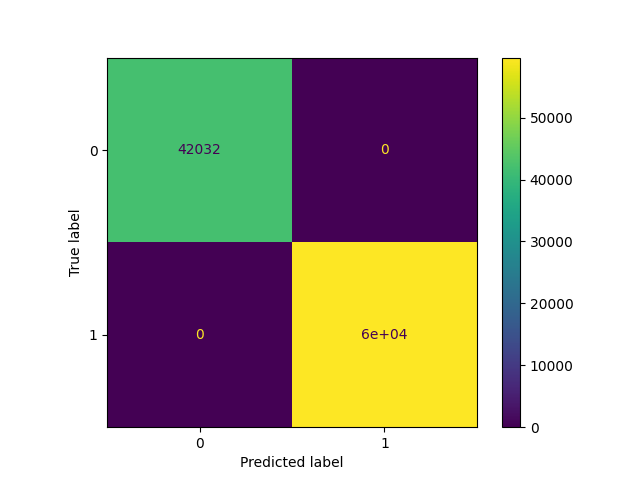
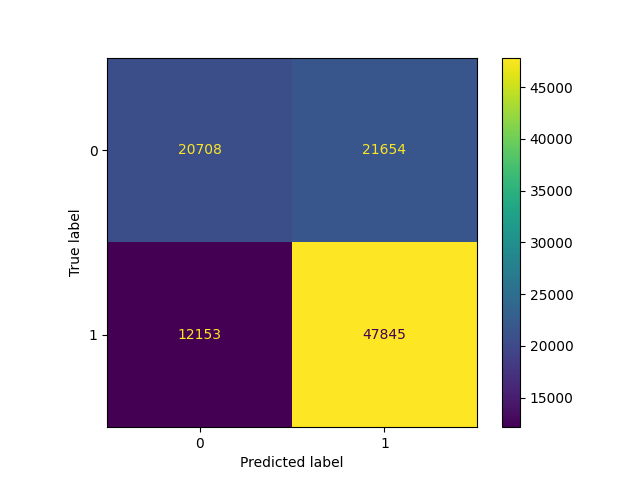
Added spyder graph

diff --git a/src/train.py b/src/train.py
@@ -1,7 +1,9 @@
+import itertools
 import pandas as pd
 import numpy as np
 import matplotlib.pyplot as plt
-from sklearn.metrics import confusion_matrix, ConfusionMatrixDisplay, accuracy_score
+from sklearn.metrics import confusion_matrix, ConfusionMatrixDisplay, accuracy_score, recall_score, f1_score, roc_auc_score, log_loss, roc_curve
+
 from sklearn.model_selection import train_test_split, GridSearchCV
 from sklearn.svm import SVC
 from sklearn.ensemble import RandomForestClassifier, GradientBoostingClassifier
@@ -25,13 +27,146 @@ def split_data(train_df: pd.DataFrame, test_df:pd.DataFrame):
     return x_train, y_train, x_test, y_test
 
 
-def train_test(train_df: pd.DataFrame, model, test_df: pd.DataFrame):
-    x_train, y_train, x_test, y_test = split_data(train_df=train_df, test_df=test_df)
-    # Train Model
+def evaluate_model(model, x_train, y_train, x_test, y_test):
     model.fit(x_train, y_train)
     y_train_pred = model.predict(x_train)
     y_pred = model.predict(x_test)
 
+    cm_train = confusion_matrix(y_true=y_train, y_pred=y_train_pred)
+
+    cm_test = confusion_matrix(y_true=y_test, y_pred=y_pred)
+    
+    # Compute Train Metrics
+    accuracy_train = accuracy_score(y_pred=y_pred, y_true=y_test)
+    # Recall
+    recall_train = recall_score(y_test, y_pred)
+    # Puntuación F1
+    f1_train = f1_score(y_test, y_pred)
+    # Curva ROC (AUC)
+    fpr_train, tpr_train, thresholds_train = roc_curve(y_test, y_pred)
+    auc_train = roc_auc_score(y_test, y_pred)
+    # Pérdida logarítmica
+    loss_train = log_loss(y_test, y_pred)
+    
+    # Compute Test Metrics
+    accuracy_test = accuracy_score(y_pred=y_pred, y_true=y_test)
+    # Recall
+    recall_test = recall_score(y_test, y_pred)
+    # Puntuación F1
+    f1_test = f1_score(y_test, y_pred)
+    # Curva ROC (AUC)
+    fpr_test, tpr_test, thresholds_test = roc_curve(y_test, y_pred)
+    auc_test = roc_auc_score(y_test, y_pred)
+    # Pérdida logarítmica
+    loss_test = log_loss(y_test, y_pred)
+
+    return ([accuracy_train, recall_train, f1_train, [fpr_train, tpr_train, thresholds_train], auc_train, loss_train, cm_train],
+        [accuracy_test, recall_test, f1_test, [fpr_test, tpr_test, thresholds_test], auc_test, loss_test, cm_test])
+
+
+def custom_train(train_df: pd.DataFrame, test_df: pd.DataFrame, model_instance, params):
+    x_train, y_train, x_test, y_test = split_data(train_df=train_df, test_df=test_df)
+    grid = get_grid(params=params)
+    best_acc = 0
+    best_params = None
+    best_all_results = None
+    for i, g in enumerate(grid):
+        try:
+            model = model_instance(**g)
+            print(f"Evaluando Modelo {str(model)}: {i}/{len(grid)}")
+            results = evaluate_model(model=model, x_test=x_test, x_train=x_train, y_test=y_test, y_train=y_train)
+            if results[1][0] > best_acc:
+                best_acc = results[1][0]
+                best_params = g
+                best_all_results = results
+        except Exception as e:
+            print(e)
+
+    return best_acc, best_params, best_all_results
+
+def create_comparision_graphic(results):
+    categorias = ['Accuracy Train', 'Recall Train', 'F1 Score Train', 'Accuracy Test', 'Recall Test', 'F1 Score Test']
+    colors = ['#1f77b4', '#ff7f0e', '#2ca02c', '#d62728', '#9467bd']
+
+    N = len(categorias)
+    fig, ax = plt.subplots(figsize=(8, 8), subplot_kw=dict(polar=True))
+    for i, (model, values) in enumerate(results.items()):
+        angulos = np.linspace(0, 2 * np.pi, N, endpoint=False).tolist()
+        grpah_metrics = [values[2][0][0], values[2][0][1], values[2][0][2],values[2][1][0], values[2][1][1], values[2][1][2]]
+        grpah_metrics += grpah_metrics[:1]
+        angulos += angulos[:1]
+        ax.fill(angulos, grpah_metrics, color=colors[i], alpha=0.25)
+        ax.plot(angulos, grpah_metrics, color=colors[i], linewidth=2, linestyle='solid', label=model)
+        ax.set_xticks(angulos[:-1])
+        ax.set_xticklabels(categorias)
+        ax.set_rscale('linear')
+        ax.legend(loc='upper right', bbox_to_anchor=(0.1, 0.1))
+    plt.plot()
+    plt.savefig(f"plots/spider_graph.png")
+    for i, (model, values) in enumerate(results.items()):
+        ConfusionMatrixDisplay(confusion_matrix=values[2][0][-1]).plot()
+        plt.plot()
+        plt.savefig(f"plots/cm_{model}_train.png")
+        ConfusionMatrixDisplay(confusion_matrix=values[2][1][-1]).plot()
+        plt.plot()
+        plt.savefig(f"plots/cm_{model}_test.png")
+    plt.close('all')
+    return
+
+
+
+def train(train_df: pd.DataFrame, test_df: pd.DataFrame):
+    modelos = [
+        # ('SVC', SVC()),
+        ('XGBoost', XGBClassifier),
+        ('RandomForest', RandomForestClassifier),
+        ('LogisticRegression', LogisticRegression),
+        ('GradientBoosting', GradientBoostingClassifier)
+    ]
+    hiperparametros = [
+        # {'C': [0.1, 1, 10, 100], 'kernel': ['linear', 'rbf']},
+        {'n_estimators': [50, 100, 200], 'learning_rate': [0.01, 0.1, 0.2, 0.3]},
+        {'n_estimators': [10, 50, 100, 200], 'max_features': ['sqrt', 'log2']},
+        {'C': [0.1, 1, 10, 100, 1_000, 10_000, 100_000], 'penalty': ['l1', 'l2'], "max_iter": [100, 1_000, 10_000]},
+        {'n_estimators': [50, 100, 200], 'learning_rate': [0.01, 0.1, 0.2, 0.3]}
+    ]
+
+    result = {}
+
+    for m, h in zip(modelos, hiperparametros):
+        acc, params, all_results = custom_train(train_df=train_df, test_df=test_df, model_instance=m[1], params=h)
+        result[m[0]] = (acc, params, all_results)
+    
+    create_comparision_graphic(results=result)    
+
+    print(result)
+    return result
+
+
+def get_grid(params):
+    valores_parametros = list(params.values())
+    parametros_claves = list(params.keys())  # ['n_estimators', 'learning_rate']
+    combinations = itertools.product(*valores_parametros)
+    res = list(combinations)
+    result = []
+    for r in res:
+        dic = {}
+        for k, v in zip(parametros_claves, r):
+            dic[k] = v
+        result.append(dic)
+    return result
+
+
+
+
+def train_test(train_df: pd.DataFrame, test_df: pd.DataFrame):
+    x_train, y_train, x_test, y_test = split_data(train_df=train_df, test_df=test_df)
+    # Train Model
+    model = find_best_model(x_train=x_train, x_test=x_test, y_train=y_train, y_test=y_test)
+    
+    model.fit(x_train, y_train)
+    y_train_pred = model.predict(x_train)
+    y_pred = model.predict(x_test)
     cm = confusion_matrix(y_true=y_train, y_pred=y_train_pred)
     ConfusionMatrixDisplay(confusion_matrix=cm).plot()
     plt.plot()
@@ -42,12 +177,24 @@ def train_test(train_df: pd.DataFrame, model, test_df: pd.DataFrame):
     plt.plot()
     plt.savefig("plots/cm_test.png")
 
-    accuracy = accuracy_score(y_pred=y_train_pred, y_true=y_train)
-    print(f"Accuracy Score Train: {accuracy}")
     accuracy = accuracy_score(y_pred=y_pred, y_true=y_test)
     print(f"Accuracy Score Test: {accuracy}")
+    accuracy = accuracy_score(y_pred=y_train_pred, y_true=y_train)
+    print(f"Accuracy Score Train: {accuracy}")
+
+    recall = recall_score(y_test, y_pred)
+
+    # Puntuación F1
+    f1 = f1_score(y_test, y_pred)
+
+    # Curva ROC (AUC)
+    fpr, tpr, thresholds = roc_curve(y_test, y_pred)
+    auc = roc_auc_score(y_test, y_pred)
+
+    # Pérdida logarítmica
+    loss = log_loss(y_test, y_pred)
+
     pickle.dump(model, open("model/model.sav", "wb"))
-    find_best_model(x_train=x_train, x_test=x_test, y_train=y_train, y_test=y_test)
 
     return
 
@@ -57,18 +204,18 @@ def find_best_model(x_train, y_train, x_test, y_test):
     # Definir los modelos a probar
     modelos = [
         # ('SVC', SVC()),
+        ('XGBoost', XGBClassifier()),
         ('RandomForest', RandomForestClassifier()),
         ('LogisticRegression', LogisticRegression()),
-        ('XGBoost', XGBClassifier()),
         ('GradientBoosting', GradientBoostingClassifier())
     ]
 
     # Definir los hiperparámetros para cada modelo
     hiperparametros = [
         # {'C': [0.1, 1, 10, 100], 'kernel': ['linear', 'rbf']},
-        {'n_estimators': [10, 50, 100, 200], 'max_features': ['sqrt', 'log2']},
-        {'C': [0.1, 1, 10, 100, 1_000, 10_000], 'penalty': ['l1', 'l2'], "max_iter": [100, 1_000, 10_000]},
         {'n_estimators': [50, 100, 200], 'learning_rate': [0.01, 0.1, 0.2, 0.3]},
+        {'n_estimators': [10, 50, 100, 200], 'max_features': ['sqrt', 'log2']},
+        {'C': [0.1, 1, 10, 100, 1_000, 10_000, 100_000], 'penalty': ['l1', 'l2'], "max_iter": [100, 1_000, 10_000]},
         {'n_estimators': [50, 100, 200], 'learning_rate': [0.01, 0.1, 0.2, 0.3]}
     ]
 
@@ -81,13 +228,14 @@ def find_best_model(x_train, y_train, x_test, y_test):
         grid = GridSearchCV(estimator=modelos[i][1], param_grid=hiperparametros[i], scoring='accuracy', n_jobs=4)
         grid.fit(x_train, y_train)
         modelo = grid.best_estimator_
-        precision = accuracy_score(y_test, modelo.predict(x_test))
-        print(f"Para el modelo {i} best accuracy: {precision}")
+        accuracy = accuracy_score(y_test, modelo.predict(x_test))
+        print(f"Para el modelo {modelos[i][0]} best accuracy: {accuracy}")
         # Si la precisión del modelo actual es mayor que la del mejor modelo hasta ahora, actualizar el mejor modelo
-        if precision > mejor_precision:
+        if accuracy > mejor_precision:
             mejor_modelo = modelo
-            mejor_precision = precision
+            mejor_precision = accuracy
 
     # Imprimir el mejor modelo y su precisión
     print(f'Mejor modelo: {mejor_modelo}')
     print(f'Precisión del mejor modelo: {mejor_precision}')
+    return mejor_modelo

diff --git a/src/predict.py b/src/predict.py
@@ -144,13 +144,43 @@ def add_teamsName_2_bracket_output(bracke_df, teams):
     return merge
 
 
-def predict_final_four(final_four_data, model):
+def predict_final_four(final_four_data, season_data, model):
+    final_four_data = final_four_data.reset_index()
+    final_four_data.drop(columns=['index'], inplace=True)
+    final_four_bracket = pd.DataFrame(columns=list(final_four_data.columns))
+    new_conf = []
     for k,v in REGION_MATCH_UP.items():
+        new_conf.append(f"{k}_{v}")
         winner_k, game_id_k = final_four_data[final_four_data['Conference'] == k][["Winner", "Game"]].values[0]
-        winner_v, game_id_v = final_four_data[final_four_data['Conference'] == k][["Winner", "Game"]].values[0]
-        final_four_data.loc[len(final_four_data)] = [f"{k}_{v}", f"{game_id_k}_{game_id_v}", winner_k, winner_v, None]
+        winner_v, game_id_v = final_four_data[final_four_data['Conference'] == v][["Winner", "Game"]].values[0]
+        print(final_four_bracket.columns)
+        final_four_bracket.loc[len(final_four_bracket)] = [f"{k}_{v}", f"{game_id_k}_{game_id_v}", winner_k, winner_v, None]
+    wx_game = final_four_bracket[final_four_bracket["Conference"] == new_conf[0]]
+    yz_game = final_four_bracket[final_four_bracket["Conference"] == new_conf[1]]
 
+    final_four_bracket.loc[len(final_four_bracket)] = ["_".join(new_conf), f"{wx_game['Game'].values[0]}_{yz_game['Game'].values[0]}", wx_game['Game'].values[0], yz_game['Game'].values[0], None]
 
+    for i in range(len(REGION_MATCH_UP)):
+        game = final_four_bracket.loc[i, :]
+        teamA, teamB, game_name, conference = game['TeamA'], game['TeamB'], game['Game'], game['Conference']
+        print(f"Game: - {game_name}     Teams: {teamA} vs {teamB}")
+        game_data = pregame_data(teamA=teamA, teamB=teamB, data=season_data, columns=season_data.columns)
+        winner = generate_prediction(game_data=game_data, model=model)
+        column = "TeamA" if i == 0 else "TeamB"
+        final_four_bracket.loc[final_four_bracket["Conference"] == "_".join(new_conf), column] = winner
+
+        final_four_bracket.loc[final_four_bracket["Conference"] == conference, "Winner"] = winner
+
+    game = final_four_bracket.loc[len(final_four_bracket)-1, :]
+    teamA, teamB, game_name, conference = game['TeamA'], game['TeamB'], game['Game'], game['Conference']
+    print(f"Game: - {game_name}     Teams: {teamA} vs {teamB}")
+    game_data = pregame_data(teamA=teamA, teamB=teamB, data=season_data, columns=season_data.columns)
+    winner = generate_prediction(game_data=game_data, model=model)
+    final_four_bracket.loc[final_four_bracket["Conference"] == "_".join(new_conf), "Winner"] = winner
+    
+    
+    
+    return final_four_bracket
 
 
 def predict(seed_file: str, season_data: pd.DataFrame, model):

diff --git a/src/pipeline.py b/src/pipeline.py
@@ -3,7 +3,7 @@ import pandas as pd
 from sklearn.linear_model import LogisticRegression
 from sklearn.ensemble import RandomForestClassifier, GradientBoostingClassifier
 from data_preparation import prepare_regular_season_csv, prepare_test_data
-from train import train_test
+from train import train_test, train
 
 
 def pipeline(config):
@@ -14,8 +14,8 @@ def pipeline(config):
         df = pd.read_csv(config.get("ingestion").get("existingFile"))
 
     test_df = prepare_test_data(config.get("testData"), train_df=df)
-    model = RandomForestClassifier(n_estimators=100, max_features="sqrt")
-    train_test(train_df=df, test_df=test_df, model=model)
+    # train_test(train_df=df, test_df=test_df)
+    result = train(train_df=df, test_df=test_df)
 
 
 if __name__ == "__main__":
